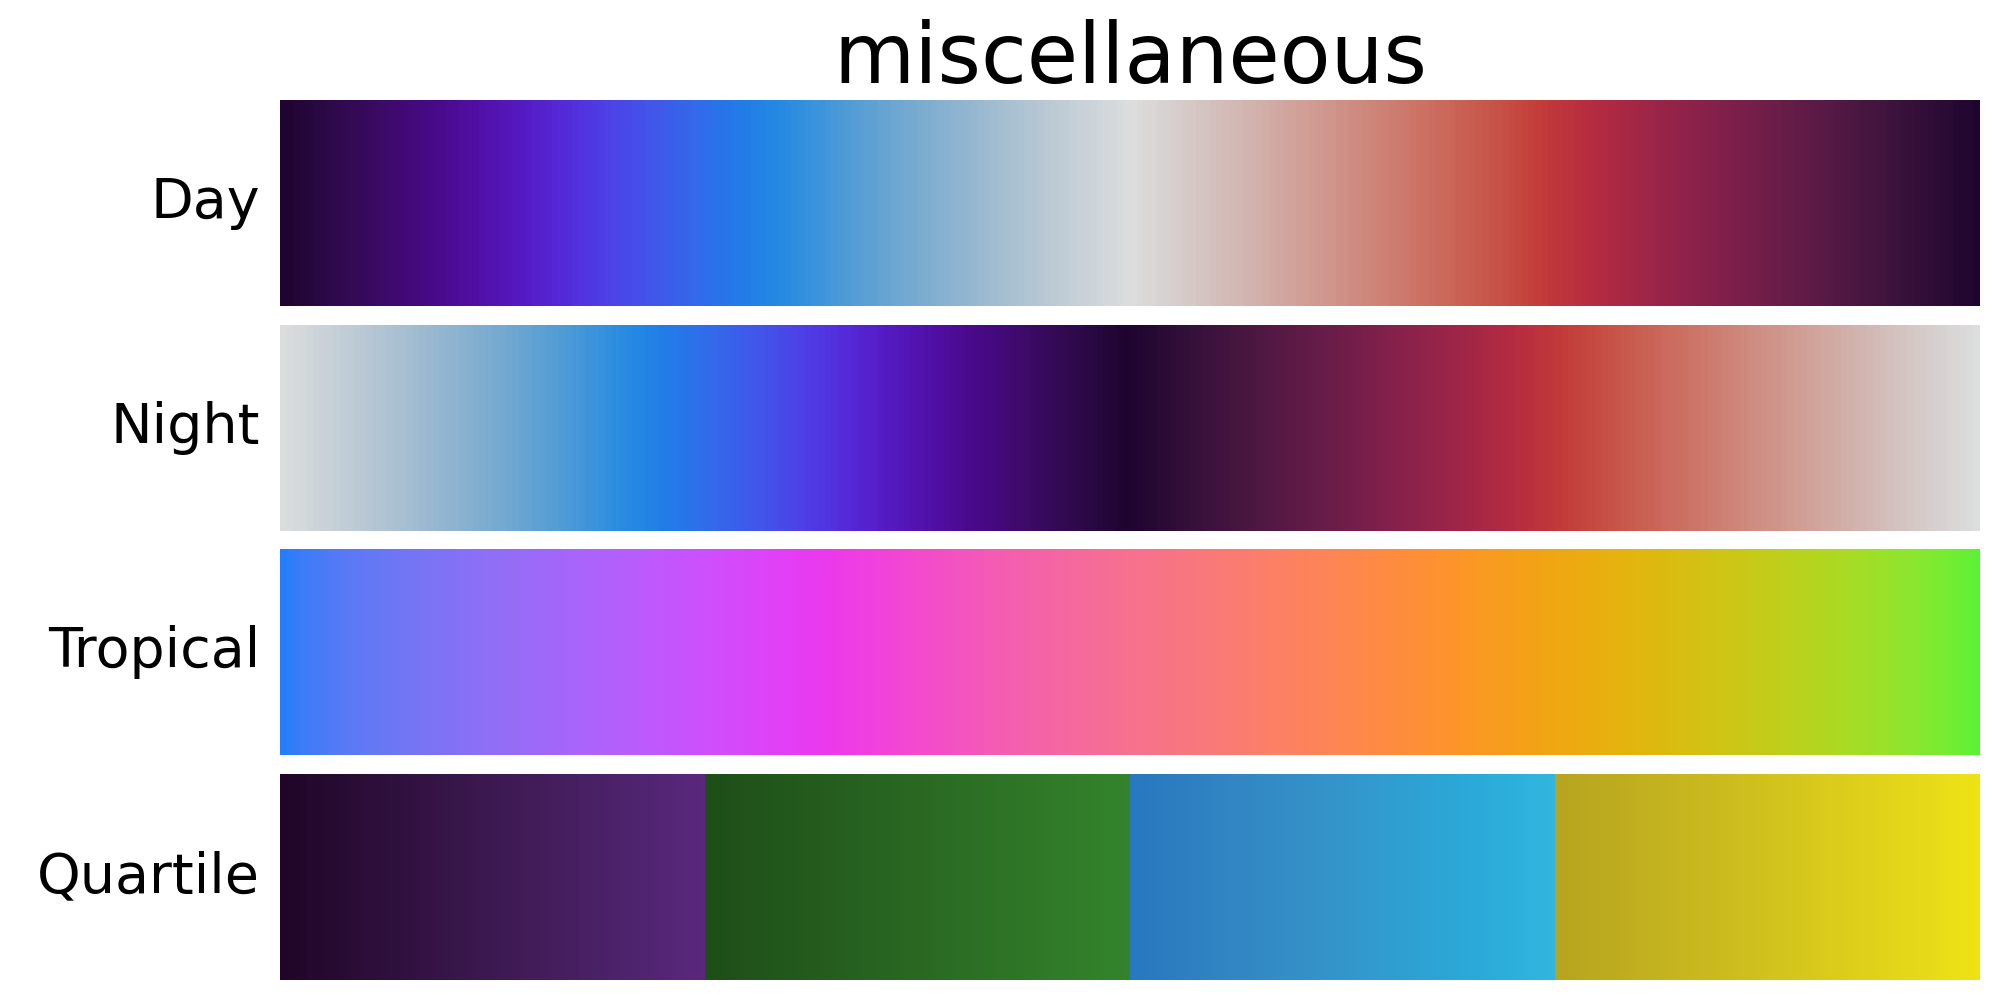
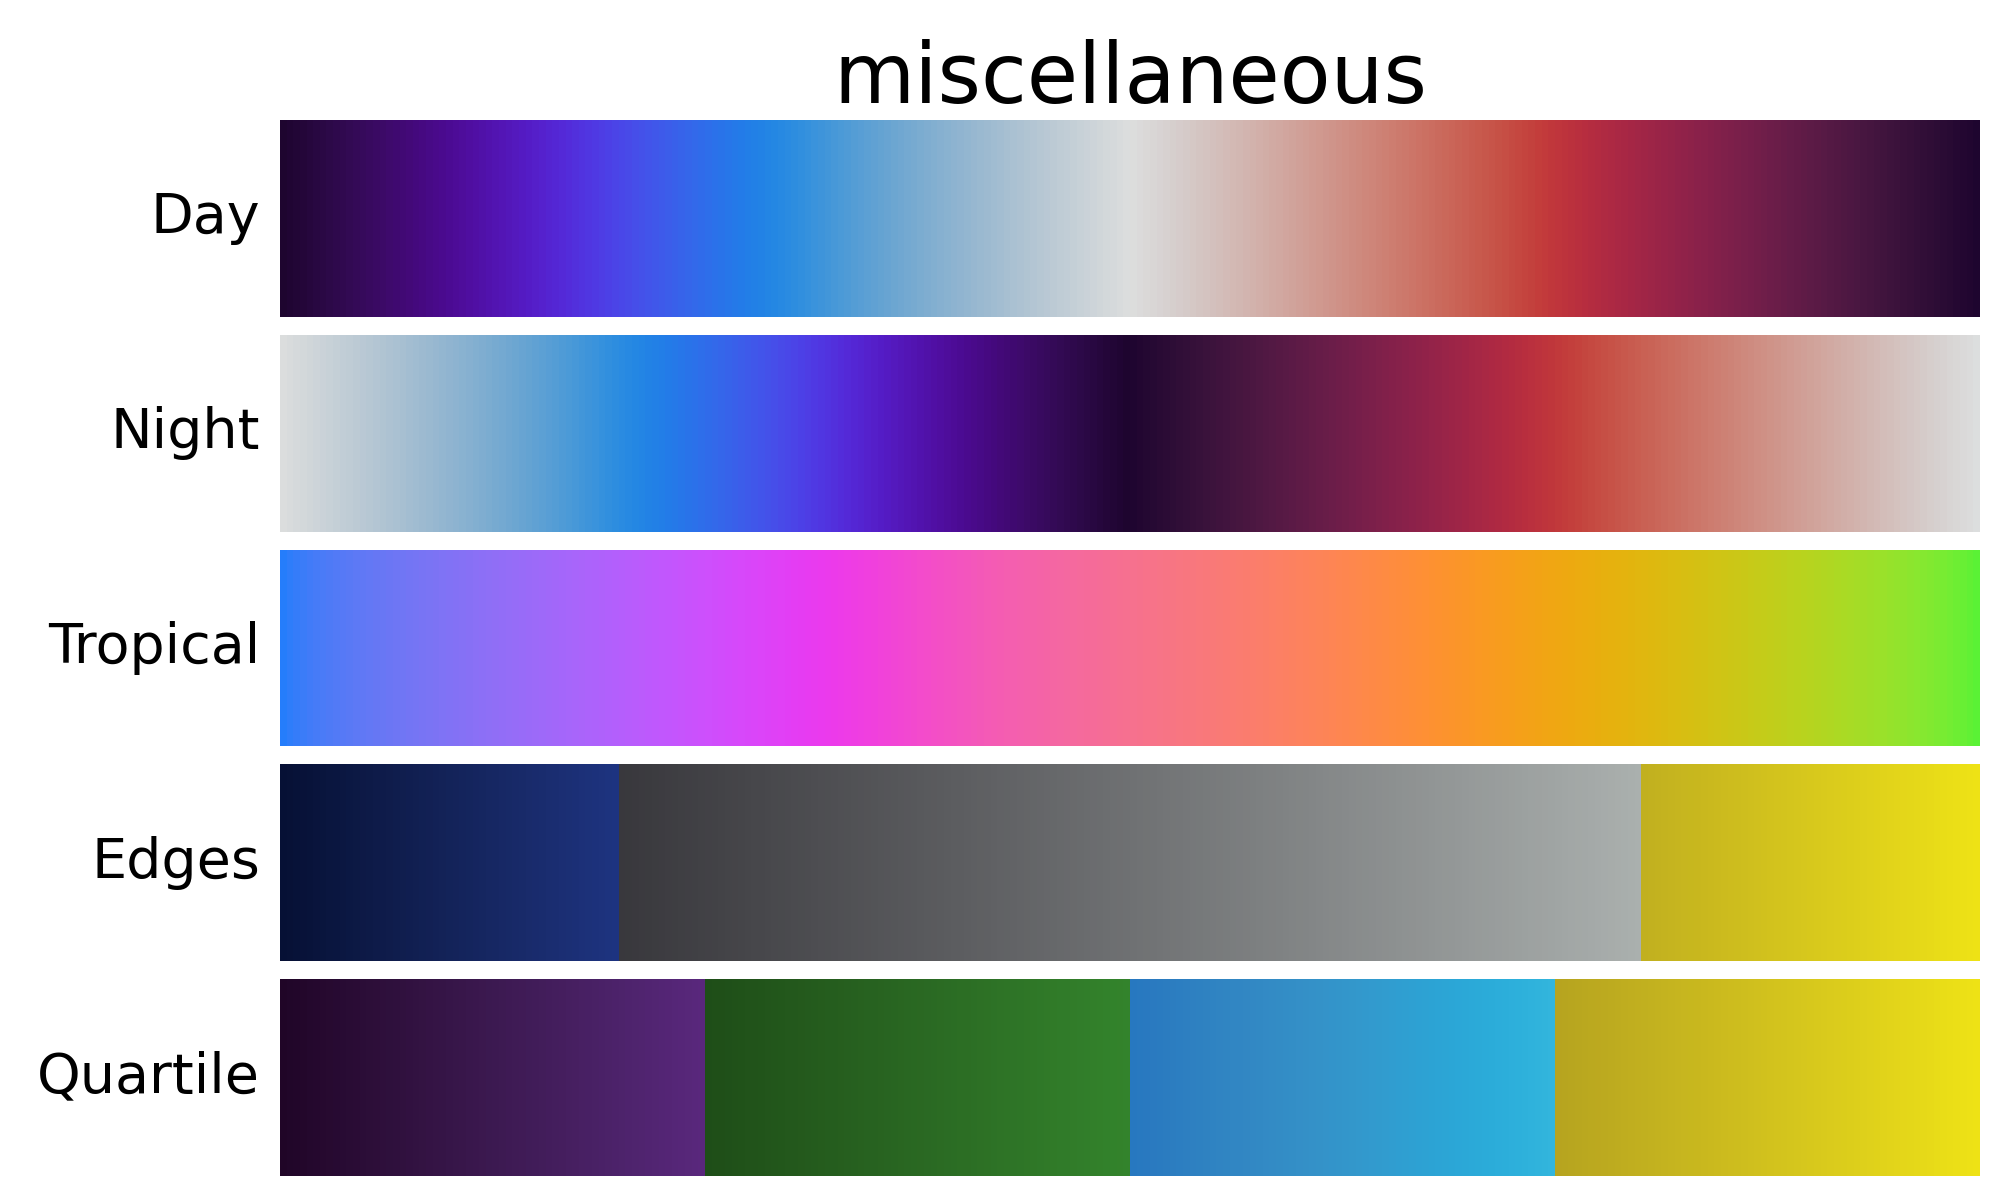
Added Edges colour map

diff --git a/scicm/cm.py b/scicm/cm.py
@@ -7,10 +7,10 @@ from matplotlib import cm
 from matplotlib.colors import LinearSegmentedColormap
 
 cmaps=['B2C','B2P','BkG','BkR','Blue','BwR','C2G',
-       'CkO','Cyan','Day','G2Y','GkP','Green','GwP',
-       'M2R','Magenta','Night','O2Y','Orange','P2M',
-       'PkO','Purple','Quartile','R2O','Red','Stone',
-       'Tropical','Yellow','YkM']
+       'CkO','Cyan','Day','Edges','G2Y','GkP','Green',
+       'GwP','M2R','Magenta','Night','O2Y','Orange',
+       'P2M','PkO','Purple','Quartile','R2O','Red',
+       'Stone','Tropical','Yellow','YkM']
 
 cmap_dict={}
 data_path=os.path.join(os.path.split(__file__)[0],'cm_data')

diff --git a/README.md b/README.md
@@ -10,7 +10,7 @@ The colour maps in the second set possess a small and simple hue change as a fun
 ![cmaps1](/docs/scicm_linear2.png)
 The third set is composed of diverging colour maps, which are intended to be use only when visualising data that ranges around a critical value. In most of them the middle point is the darkest, as this clearly distinguishes the middle values from lack of data without the need to set the figure background to a colour other than white. The two colour maps that have a light middle point (*BwR* and *GwP*) add choices for cases where that is not a concern. All these colour maps span the same dynamic range in lightness, both on each side and across maps, and are to a good degree colourblind-friendly.
 ![cmaps2](/docs/scicm_diverging.png)
-The last set is composed of colour maps with special use cases. *Day* and *Night* are cyclic maps, linear versions of the *twiligfht_shifted* and *twilight* maps from matplotlib, respectively. Cyclic maps should only be used for cyclic data, an easy example being angles, where for example -180° is the same as 180°. *Tropical* is a linear map that has been designed for plots where the intention is to highlight broad regions of the data, through the use of a wide range of hues. For this purpose also it has been designed with a less than hlaf of the lightness dynamic range than our other linear maps. Due to these design choices, is not very colourblind-friendly, but for red-green colourblindness it appears as two regions with the transition near the middle of the map, so it is not the worst compromise. *Quartile* is an experimental colour map, composed of four linear segments of significantly different hues, though still perfectly linear in greyscale. This colour map is meant as an option instead of filled contours, as it displays information inside the contours which would be otherwise lost, or to be used to sample colours from.
+The last set is composed of colour maps with special use cases. *Day* and *Night* are cyclic maps, linear versions of the *twiligfht_shifted* and *twilight* maps from matplotlib, respectively. Cyclic maps should only be used for cyclic data, an easy example being angles, where for example -180° is the same as 180°. *Tropical* is a linear map that has been designed for plots where the intention is to highlight broad regions of the data, through the use of a wide range of hues. For this purpose also it has been designed with a less than hlaf of the lightness dynamic range than our other linear maps. Due to these design choices, is not very colourblind-friendly, but for red-green colourblindness it appears as two regions with the transition near the middle of the map, so it is not the worst compromise. *Edges* is a linear map inspired by cmocean's Oxy. It has *Stone* as a base, but with the notable distinction that for \[normalised\] values below 0.2 and above 0.8. This is meant to highlight extreme values of the data. *Quartile* is an experimental colour map, composed of four linear segments of significantly different hues, though still perfectly linear in greyscale. This colour map is meant as an option instead of filled contours, as it displays information inside the contours which would be otherwise lost, or to be used to sample colours from.
 ![cmaps3](/docs/scicm_miscellaneous.png)
 
-Current version: 0.0.7
+Current version: 0.0.8
